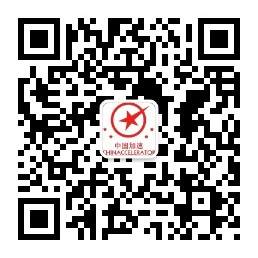
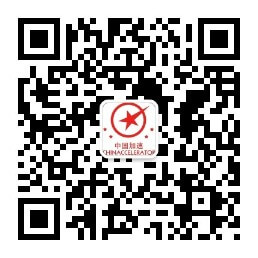
significantly reduce image sizes

diff --git a/css/newco.css b/css/newco.css
@@ -97,7 +97,7 @@ body {
 header.section[data-anchor=home] {
   background:
     linear-gradient(rgba(51, 74, 117, 1), rgba(17, 17, 17, 0.6)),
-    url('../img/header-banner_2.jpg');
+    url('../img/header-banner_3.jpg');
   background-repeat: no-repeat;
   background-attachment: fixed;
   background-position: center center;
@@ -110,7 +110,7 @@ header.section[data-anchor=home] {
 .section[data-anchor=tickets] {
   background:
     linear-gradient(rgba(251, 251, 255, 0.9), rgba(251, 251, 255, 0.7)),
-    url('../img/Batch8_DemoDay_mid.jpg');
+    url('../img/Batch8_DemoDay_mid_1920_80.jpg');
   background-repeat: no-repeat;
   background-attachment: fixed;
   background-position: center center;

diff --git a/index.html b/index.html
@@ -390,7 +390,7 @@
     </section>
     <section class="section fp-auto-height" data-anchor="about">
       <div class="container">
-        <img src="img/8X8_BANNER.jpg" class="img-responsive">
+        <img src="img/8X8_BANNER_1920_80.jpg" class="img-responsive">
         <h3 class="text-center">Choose the Companies You Want to Visit</h3>
         <h5 class="text-center">Navigating China’s tech industry is tough. That’s why NewCo is bringing you inside China’s most cutting-edge tech companies to learn, network, and be inspired.</h5>
         <ul class="list-inline text-center">
